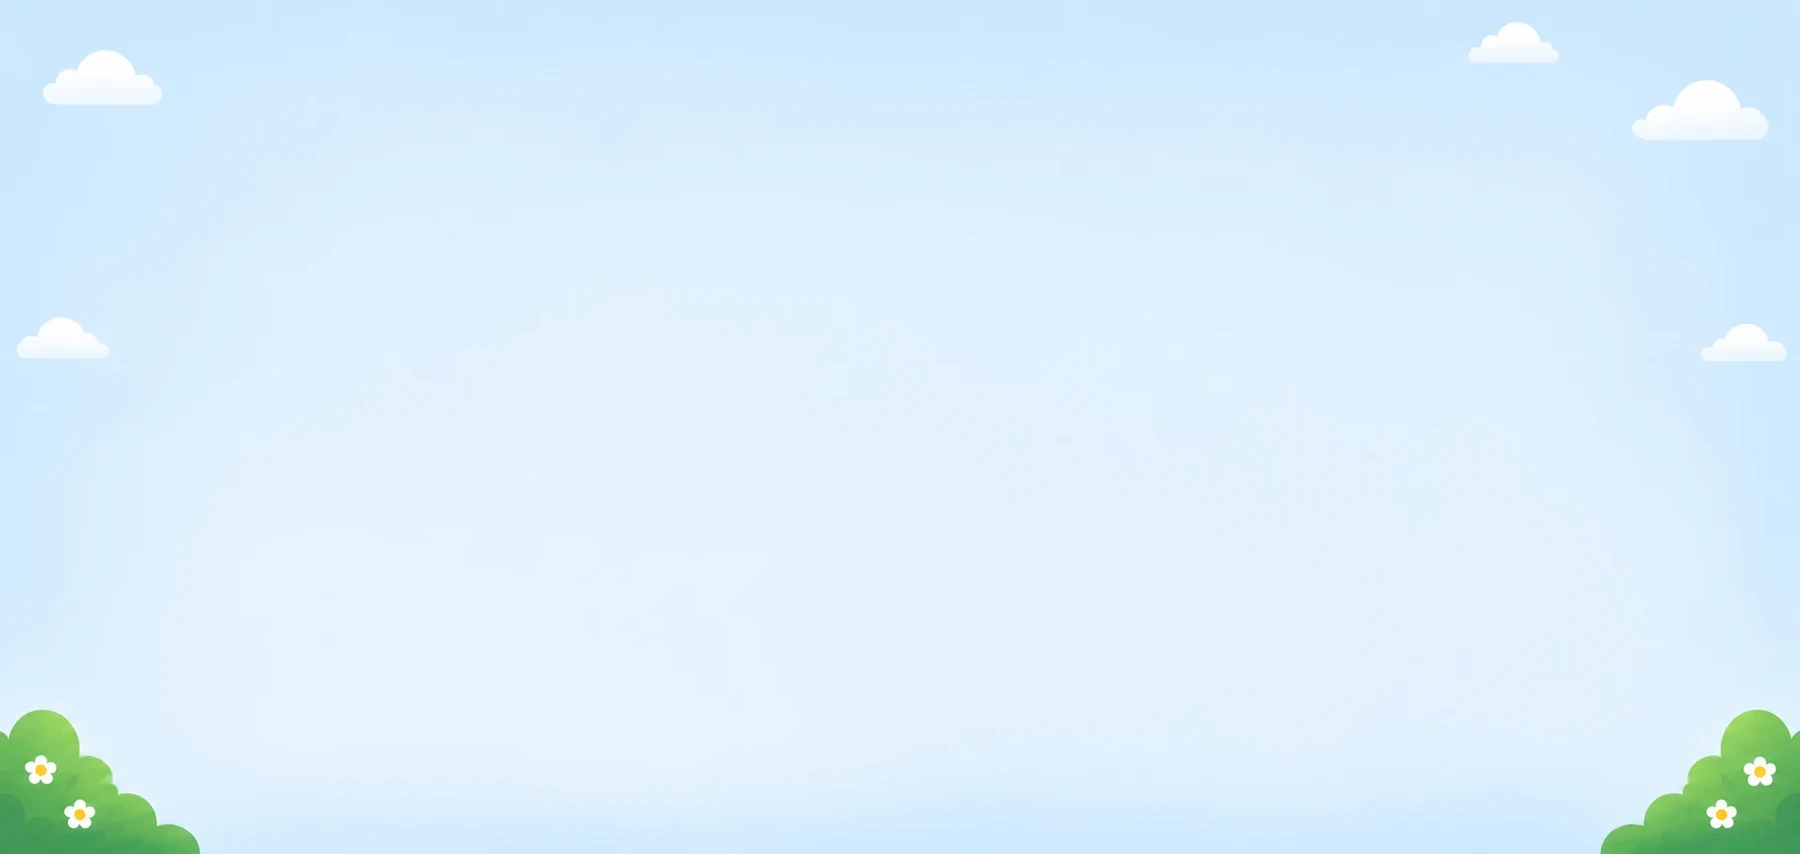
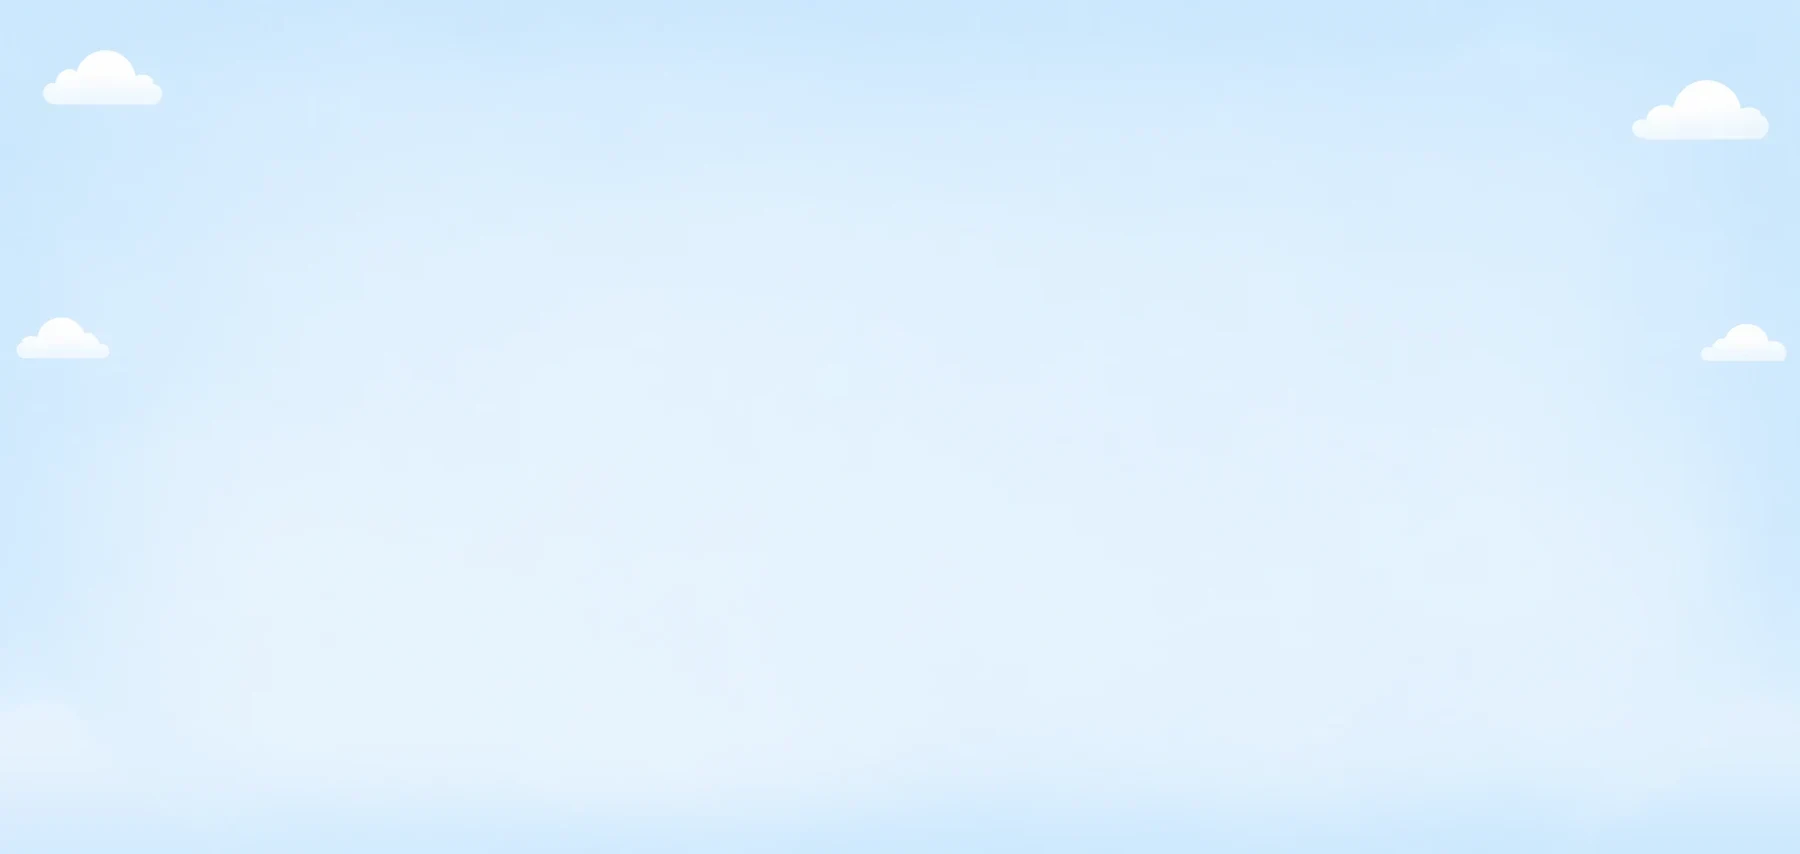
Lịch sử tô: tinh chỉnh nền và ảnh trang trí (#326)
* Thủ Lĩnh Thép: tô lại chỏm mũ (đỉnh xám, hai cánh xanh gọn, bật clip_to_ink để hết lem xám)

Claude-Session: https://claude.ai/code/session_01Xqfit1TE88fdJNq9wU4RBg

* Thủ Lĩnh Thép: đỉnh chỏm mũ tô xanh

Claude-Session: https://claude.ai/code/session_01Xqfit1TE88fdJNq9wU4RBg

* Gấu họa sĩ ở sảnh: chuyển động trên ảnh liền, nét không còn đứt khi cử động

Trước đây gấu là 7 lớp ảnh cắt rời (thân, đầu, 2 tay, 2 chân) xoay riêng nên mép cắt hở ra,
nét viền ở tay và khăn bị đứt vụn. Nay gấu là một ảnh liền, đầu/tay/chân/mắt chớp được uốn
bằng trường dịch chuyển mượt trên WebGL (bản đồ trọng số mờ dần ở khớp) nên các nét luôn nối
liền, độ dày đều. Vá thêm các lỗ xuyên thấu và vệt xước trong ảnh gốc (vai, bảng màu).
Không có WebGL hoặc bật giảm chuyển động thì hiện ảnh tĩnh. Giảm biên độ giơ cọ để không gập nét.

Claude-Session: https://claude.ai/code/session_01Xqfit1TE88fdJNq9wU4RBg

* Giao diện chọn tranh tô màu: bảng gỗ lớn, biển nhóm tuổi treo, nền như trang chủ

Trang chọn chủ đề và trang chọn tranh dùng chung bộ khung gỗ (biển tiêu đề treo có cây cọ,
3 biển nhóm tuổi, bảng gỗ lớn, khung tranh có ghim và nút mũi tên). Nền lấy ảnh của trang chủ,
gấu họa sĩ và biển chỉ đường ở hai bên khi màn hình rộng. Nhóm tuổi đang chọn được nhớ khi quay lại.

Claude-Session: https://claude.ai/code/session_01Xqfit1TE88fdJNq9wU4RBg

* Trang chọn chủ đề: bỏ nhãn gói dịch vụ (chỉ hiện ở trang chủ)

Claude-Session: https://claude.ai/code/session_01Xqfit1TE88fdJNq9wU4RBg
[…]

Changed region(s): [[0.8711, 0.822, 1.0, 1.0], [0.0, 0.822, 0.1244, 1.0], [0.8089, 0.0304, 0.8711, 0.0913]]

diff --git a/frontend/src/index.css b/frontend/src/index.css
@@ -1363,11 +1363,11 @@ a.sb-slot:hover { transform: translateY(-1.4cqw) rotate(-0.6deg); z-index: 5; }
 /* ===== Lịch sử tô ===== */
 .hs-stage { position: relative; min-height: calc(100vh - 73px); overflow: hidden; background: #D9ECFB url(/history/bg.webp) center bottom / cover no-repeat; background-attachment: fixed; }
 .hs-page { position: relative; z-index: 1; max-width: 1200px; padding-top: 16px; }
-.hs-head { display: flex; flex-wrap: wrap; align-items: flex-end; justify-content: space-between; gap: 8px 24px; }
+.hs-head { display: flex; align-items: center; justify-content: space-between; gap: 8px 24px; }
 .hs-title { display: flex; align-items: center; gap: 12px; margin: 0; font-family: var(--font-display, inherit); font-weight: 900; font-size: clamp(30px, 4vw, 46px); color: #1E3A5C; }
 .hs-title svg { color: #5C7FA6; }
 .hs-sub { margin: 8px 0 0; max-width: 640px; color: #3F5673; font-weight: 600; }
-.hs-deco { width: clamp(260px, 42vw, 600px); height: auto; margin: -70px -20px -70px auto; position: relative; z-index: 2; user-select: none; pointer-events: none; -webkit-mask-image: radial-gradient(ellipse closest-side, #000 70%, transparent 100%); mask-image: radial-gradient(ellipse closest-side, #000 70%, transparent 100%); }
+.hs-deco { width: clamp(260px, 44vw, 620px); height: auto; margin: -24px -16px -46px auto; position: relative; z-index: 2; user-select: none; pointer-events: none; }
 .hs-panel { position: relative; padding: 22px clamp(14px, 2.6vw, 34px) 28px; border-radius: 36px; background: rgba(255, 255, 255, 0.72); box-shadow: 0 12px 30px rgba(60, 110, 160, 0.16), inset 0 2px 0 #fff; }
 .hs-filters { display: flex; flex-wrap: wrap; gap: 12px; margin-bottom: 20px; }
 .hs-filter { display: inline-flex; align-items: center; gap: 10px; padding: 10px 26px; border-radius: 999px; background: #fff; color: #1E3A5C; font-weight: 800; font-size: 19px; box-shadow: 0 3px 8px rgba(60, 110, 160, 0.2), inset 0 -2px 0 #E3EDF7; transition: transform 0.15s; }
@@ -1386,7 +1386,9 @@ a.sb-slot:hover { transform: translateY(-1.4cqw) rotate(-0.6deg); z-index: 5; }
 .hs-name { overflow: hidden; padding: 0 4px; font-weight: 800; font-size: 18px; color: #1E3A5C; text-overflow: ellipsis; white-space: nowrap; }
 .hs-more { display: grid; place-items: center; flex: none; width: 38px; height: 38px; border-radius: 999px; background: #fff; box-shadow: 0 2px 6px rgba(60, 110, 160, 0.25); color: #1E3A5C; font-size: 14px; letter-spacing: -1px; font-weight: 900; }
 .hs-empty { padding: 28px; border-radius: 24px; background: #fff; text-align: center; }
-@media (max-width: 639px) { .hs-deco { width: 78%; margin: -8px -10px 6px auto; } }
+@media (max-width: 639px) { .hs-deco { width: 70%; margin: -10px -8px -30px auto; } .hs-head { flex-wrap: nowrap; } .hs-title { font-size: 26px; } .hs-title svg { width: 34px; height: 34px; } }
 .hs-foot { display: flex; align-items: center; justify-content: space-between; gap: 8px; padding: 2px 2px 2px 4px; }
 .hs-foot .hs-name { min-width: 0; padding: 0; }
 .hs-foot .hs-name { white-space: normal; line-height: 1.2; font-size: 17px; display: -webkit-box; -webkit-line-clamp: 2; -webkit-box-orient: vertical; overflow: hidden; }
+.hs-title { white-space: nowrap; } .hs-title svg { flex: none; }
+@media (max-width: 639px) { .hs-title { font-size: 24px; gap: 8px; } .hs-title svg { width: 30px; height: 30px; } .hs-deco { width: 62%; } }

diff --git a/frontend/src/pages/History/History.jsx b/frontend/src/pages/History/History.jsx
@@ -147,7 +147,6 @@ export default function History() {
             <h1 className="hs-title">
               <Icon name="history" size={48} strokeWidth={2.6} /> {t('history.title')}
             </h1>
-            <p className="hs-sub">{t('history.retention')}</p>
           </div>
           <img src="/history/deco.webp" alt="" className="hs-deco" draggable={false} />
         </header>
